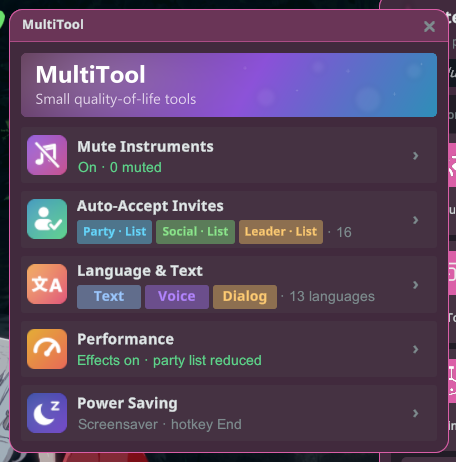
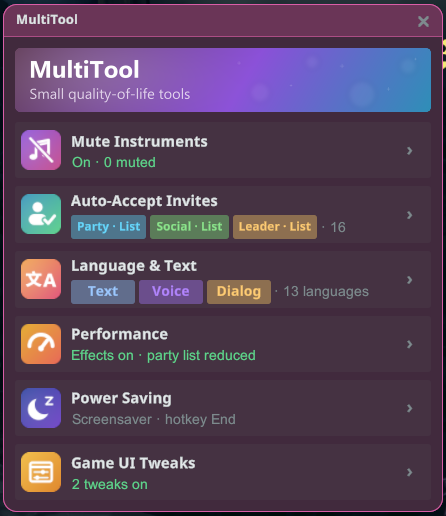
multitool 1.3.0: add Game UI Tweaks (changelog, guide, screenshots), pin v1.3.0 (6770831)

diff --git a/plugins/multitool/guide.th.md b/plugins/multitool/guide.th.md
@@ -1,7 +1,7 @@
 # MultiTool
 
 เครื่องมือเล็ก ๆ ที่ช่วยให้เล่นสะดวกขึ้น รวมไว้ในหน้าต่างเดียว: ปิดเสียงเครื่องดนตรีของผู้เล่นคนอื่น ตอบรับคำเชิญอัตโนมัติจากคนที่คุณเลือก
-ปลดล็อกทุกภาษาที่มีอยู่ในไคลเอนต์เกมนี้ แสดงบทสนทนา NPC ทันที ต่อสู้ลื่นขึ้น และสกรีนเซฟเวอร์สำหรับตอนที่คุณไม่อยู่หน้าจอ
+ปลดล็อกทุกภาษาที่มีอยู่ในไคลเอนต์เกมนี้ แสดงบทสนทนา NPC ทันที ต่อสู้ลื่นขึ้น สกรีนเซฟเวอร์สำหรับตอนที่คุณไม่อยู่หน้าจอ และปรับหน้าจอบางส่วนของเกมให้ใช้ง่ายขึ้น
 
 ![ฮับ MultiTool](media/hub.png)
 
@@ -92,6 +92,17 @@
 - **Enter power saving** (เข้าโหมดประหยัดพลังงาน) เริ่มทันที
 - ปุ่มลัดของคุณใช้เปิดและปิด: ค่าเริ่มต้นคือ **End** เปลี่ยนได้ที่ **Settings › Hotkeys**
 - ออกได้ด้วยปุ่ม **Exit** บนสกรีนเซฟเวอร์หรือปุ่มลัดของคุณ และจะออกเองเมื่อคุณล็อกเอาต์
+
+## Game UI Tweaks (ปรับแต่ง UI ของเกม)
+
+แก้จุดเล็ก ๆ บนหน้าจอของเกมเอง แต่ละอย่างมีสวิตช์ของตัวเอง และทั้งสองอย่างเป็น **Off** ตั้งแต่เริ่มต้น
+
+![Game UI Tweaks (ปรับแต่ง UI ของเกม)](media/game-ui-tweaks.png)
+
+- **Monthly card reward › Close it automatically** (ปิดป๊อปอัปรางวัลบัตรรายเดือนอัตโนมัติ): รางวัลรายวันของบัตรรายเดือนจะได้รับอยู่แล้วตอนล็อกอิน ตัวเลือกนี้จะปิดป๊อปอัปรางวัลให้และทำเครื่องหมายว่าดูแล้ว จึงไม่เด้งขึ้นมาอีก
+- **Wardrobe › Merge clothes and accessory tabs** (รวมแท็บชุดและเครื่องประดับ): ตู้เสื้อผ้าจะแสดงช่องชุดและช่องเครื่องประดับเคียงข้างกันในแท็บเดียว ไม่ต้องสลับแท็บ ช่องเครื่องประดับยังซูมไปที่ศีรษะเหมือนเดิม และตัวละครจะอยู่ตรงกลางพื้นที่ที่เหลือ แท็บสกินอาวุธไม่เปลี่ยนแปลง มีผลตั้งแต่ครั้งถัดไปที่คุณเปิดตู้เสื้อผ้า
+
+![ตู้เสื้อผ้าที่รวมแท็บแล้ว](media/wardrobe-merge.png)
 
 ## หมายเหตุ
 

diff --git a/plugins/multitool/guide.ja.md b/plugins/multitool/guide.ja.md
@@ -1,6 +1,6 @@
 # MultiTool
 
-ちょっと便利な小さなツールを、1つのウィンドウにまとめました。他のプレイヤーの楽器をミュートしたり、選んだ相手からの招待を自動で承認したり、このゲームクライアントに入っているすべての言語を解放したり、NPCの会話文をすぐに表示したり、戦闘を軽くしたり、離席中にスクリーンセーバーを使ったりできます。
+ちょっと便利な小さなツールを、1つのウィンドウにまとめました。他のプレイヤーの楽器をミュートしたり、選んだ相手からの招待を自動で承認したり、このゲームクライアントに入っているすべての言語を解放したり、NPCの会話文をすぐに表示したり、戦闘を軽くしたり、離席中にスクリーンセーバーを使ったり、ゲーム本来の画面をちょっと使いやすくしたりできます。
 
 ![MultiToolのハブ](media/hub.png)
 
@@ -88,6 +88,17 @@
 - **Enter power saving**（省電力に入る）ですぐに開始します。
 - ホットキーでオン／オフを切り替えます。初期設定は **End** で、**Settings › Hotkeys** で変更できます。
 - 終了するには、スクリーンセーバーの **Exit** ボタンかホットキーを押します。ログアウトしても終了します。
+
+## Game UI Tweaks（ゲームUIの調整）
+
+ゲーム本来の画面をちょっと直す機能です。それぞれにスイッチがあり、どちらも初期設定は **Off** です。
+
+![Game UI Tweaks（ゲームUIの調整）](media/game-ui-tweaks.png)
+
+- **Monthly card reward › Close it automatically**（マンスリーカード報酬を自動で閉じる）：マンスリーカードの毎日の報酬はログイン時にすでに受け取っています。報酬ポップアップを自動で閉じて確認済みにするので、再び表示されません。
+- **Wardrobe › Merge clothes and accessory tabs**（服とアクセサリーのタブをまとめる）：ワードローブで服のスロットとアクセサリーのスロットを1つのタブに並べて表示するので、タブを切り替える必要がありません。アクセサリーのスロットはこれまでどおり頭にズームし、キャラクターは残りのスペースの中央に表示されます。武器スキンのタブは変わりません。次にワードローブを開いたときから反映されます。
+
+![タブをまとめたワードローブ](media/wardrobe-merge.png)
 
 ## 補足
 

diff --git a/plugins/multitool/guide.fil.md b/plugins/multitool/guide.fil.md
@@ -2,7 +2,7 @@
 
 Ilang maliliit na tool para gumaan ang laro, sa iisang window: i-mute ang mga instrumento ng ibang player,
 awtomatikong tanggapin ang mga imbitasyon mula sa mga taong pinili mo, i-unlock ang lahat ng wikang kasama sa game
-client na ito, agad na ipakita ang usapan ng NPC, mas maayos na laban, at screensaver para sa oras na wala ka.
+client na ito, agad na ipakita ang usapan ng NPC, mas maayos na laban, screensaver para sa oras na wala ka, at pag-aayos sa ilang sariling screen ng laro.
 
 ![MultiTool hub](media/hub.png)
 
@@ -100,6 +100,23 @@ Buksan ang screensaver ng laro habang wala ka. Binababa nito ang frame rate at t
 - Sinisimulan agad ng **Enter power saving** (Pumasok sa power saving).
 - Binubuksan at isinasara ito ng hotkey mo: **End** sa simula, mapapalitan sa **Settings › Hotkeys**.
 - Para lumabas, pindutin ang **Exit** button sa screensaver o ang hotkey mo. Natatapos din ito kapag nag-log out ka.
+
+## Game UI Tweaks (Mga tweak sa UI ng laro)
+
+Maliliit na ayos para sa sariling mga screen ng laro. May sariling switch ang bawat isa, at parehong **Off** sa simula.
+
+![Game UI Tweaks (Mga tweak sa UI ng laro)](media/game-ui-tweaks.png)
+
+- **Monthly card reward › Close it automatically** (Awtomatikong isara ang reward ng monthly card):
+  naibigay na ang daily reward ng monthly card pagka-log in mo. Isinasara nito ang reward popup para sa
+  iyo at minamarkahan itong nakita na, kaya hindi na ito bumabalik.
+- **Wardrobe › Merge clothes and accessory tabs** (Pagsamahin ang tab ng damit at accessories):
+  ipinapakita ng Wardrobe nang magkatabi ang mga slot ng damit at ng accessories sa iisang tab, kaya hindi
+  mo na kailangang magpalit ng tab. Naka-zoom pa rin sa ulo ang mga slot ng accessories gaya ng dati, at
+  nasa gitna ng natitirang espasyo ang character mo. Walang pagbabago sa tab ng weapon skin. Magkakabisa ito
+  sa susunod na pagbukas mo ng Wardrobe.
+
+![Wardrobe na pinagsama ang mga tab](media/wardrobe-merge.png)
 
 ## Mga tala
 

diff --git a/plugins/multitool/guide.ko.md b/plugins/multitool/guide.ko.md
@@ -2,7 +2,7 @@
 
 작고 편리한 도구 몇 가지를 창 하나에 모았습니다. 다른 플레이어의 악기 소리를 음소거하고, 직접 고른 사람의 초대를 자동으로
 수락하고, 이 게임 클라이언트에 들어 있는 모든 언어를 잠금 해제하고, NPC 대화를 바로 표시하고, 전투를 더 부드럽게 하고,
-자리를 비울 때 화면 보호기를 켤 수 있습니다.
+자리를 비울 때 화면 보호기를 켜고, 게임 자체 화면 몇 가지를 더 편하게 바꿀 수 있습니다.
 
 ![MultiTool 허브](media/hub.png)
 
@@ -93,6 +93,20 @@
 - **Enter power saving**(절전 시작)을 누르면 바로 시작합니다.
 - 단축키로 켜고 끕니다. 기본값은 **End**이며 **Settings › Hotkeys**에서 바꿀 수 있습니다.
 - 끝내려면 화면 보호기의 **Exit** 버튼이나 단축키를 누르세요. 로그아웃해도 끝납니다.
+
+## Game UI Tweaks(게임 UI 조정)
+
+게임 자체 화면을 조금씩 고치는 기능입니다. 각각 스위치가 따로 있으며, 둘 다 기본값은 **Off**입니다.
+
+![Game UI Tweaks(게임 UI 조정)](media/game-ui-tweaks.png)
+
+- **Monthly card reward › Close it automatically**(월정액 카드 보상 자동 닫기): 월정액 카드의 일일 보상은
+  로그인할 때 이미 지급됩니다. 보상 팝업을 대신 닫고 확인한 것으로 표시하므로 다시 뜨지 않습니다.
+- **Wardrobe › Merge clothes and accessory tabs**(옷·액세서리 탭 합치기): 옷장에서 옷 슬롯과 액세서리 슬롯을
+  한 탭에 나란히 보여 주므로 탭을 바꿀 필요가 없습니다. 액세서리 슬롯은 예전처럼 머리를 확대해 보여 주고,
+  캐릭터는 남은 공간의 가운데에 놓입니다. 무기 스킨 탭은 그대로입니다. 다음에 옷장을 열 때부터 적용됩니다.
+
+![탭을 합친 옷장](media/wardrobe-merge.png)
 
 ## 참고
 

diff --git a/plugins/multitool/guide.id.md b/plugins/multitool/guide.id.md
@@ -2,7 +2,7 @@
 
 Beberapa alat kecil yang bikin main lebih nyaman, dalam satu jendela: bisukan instrumen pemain lain, terima undangan
 secara otomatis dari orang yang kamu pilih, buka semua bahasa yang ada di klien game ini, tampilkan dialog NPC
-seketika, pertarungan lebih mulus, dan screensaver saat kamu sedang AFK.
+seketika, pertarungan lebih mulus, screensaver saat kamu sedang AFK, serta merapikan beberapa layar bawaan game.
 
 ![Hub MultiTool](media/hub.png)
 
@@ -97,6 +97,22 @@ Nyalakan screensaver game saat kamu sedang AFK. Frame rate diturunkan dan layar 
 - **Enter power saving** (Masuk hemat daya) langsung memulainya.
 - Hotkey-mu menyalakan dan mematikannya: **End** secara default, bisa diganti di **Settings › Hotkeys**.
 - Untuk keluar, tekan tombol **Exit** di screensaver atau hotkey-mu. Juga berakhir saat kamu logout.
+
+## Game UI Tweaks (Penyesuaian UI game)
+
+Perbaikan kecil untuk layar bawaan game. Masing-masing punya sakelar sendiri, dan keduanya **Off** secara default.
+
+![Game UI Tweaks (Penyesuaian UI game)](media/game-ui-tweaks.png)
+
+- **Monthly card reward › Close it automatically** (Tutup otomatis hadiah kartu bulanan): hadiah harian
+  kartu bulanan sebenarnya sudah diberikan saat kamu login. Opsi ini menutup popup hadiahnya untukmu dan
+  menandainya sudah dilihat, jadi tidak muncul lagi.
+- **Wardrobe › Merge clothes and accessory tabs** (Gabungkan tab pakaian dan aksesori): Wardrobe
+  menampilkan slot pakaian dan slot aksesori berdampingan dalam satu tab, jadi kamu tidak perlu ganti tab.
+  Slot aksesori tetap memperbesar ke kepala seperti sebelumnya, dan karaktermu berada di tengah ruang yang
+  tersisa. Tab skin senjata tidak berubah. Berlaku saat kamu membuka Wardrobe berikutnya.
+
+![Wardrobe dengan tab yang digabung](media/wardrobe-merge.png)
 
 ## Catatan
 

diff --git a/plugins/multitool/guide.md b/plugins/multitool/guide.md
@@ -2,7 +2,7 @@
 
 A handful of small quality-of-life tools in one window: mute other players' instruments, auto-accept
 invites from the people you choose, unlock every language this game client ships, show NPC dialog
-instantly, hide other players' effects for smoother fights, and turn on a screensaver while you're away.
+instantly, hide other players' effects for smoother fights, turn on a screensaver while you're away, and tidy up a few of the game's own screens.
 
 ![The MultiTool hub](media/hub.png)
 
@@ -102,6 +102,21 @@ Turn on the game's screensaver while you're away. It lowers the frame rate and c
 - **Enter power saving** starts it right away.
 - Your hotkey turns it on and off: **End** by default, changeable in **Settings › Hotkeys**.
 - To leave, press the **Exit** button on the screensaver or your hotkey. It also ends when you log out.
+
+## Game UI Tweaks
+
+Small fixes for the game's own screens. Each one has its own switch, and both are **Off** by default.
+
+![Game UI Tweaks](media/game-ui-tweaks.png)
+
+- **Monthly card reward › Close it automatically**: the monthly card's daily reward is already given
+  when you log in. This closes the reward popup for you and marks it as seen, so it doesn't come back.
+- **Wardrobe › Merge clothes and accessory tabs**: the Wardrobe shows the clothes slots and the accessory
+  slots side by side in one tab, so you don't have to switch tabs. Accessory slots still zoom in on the
+  head like before, and your character stays centred in the space that's left. The weapon skin tab is
+  unchanged. This applies the next time you open the Wardrobe.
+
+![Wardrobe with merged tabs](media/wardrobe-merge.png)
 
 ## Notes
 
